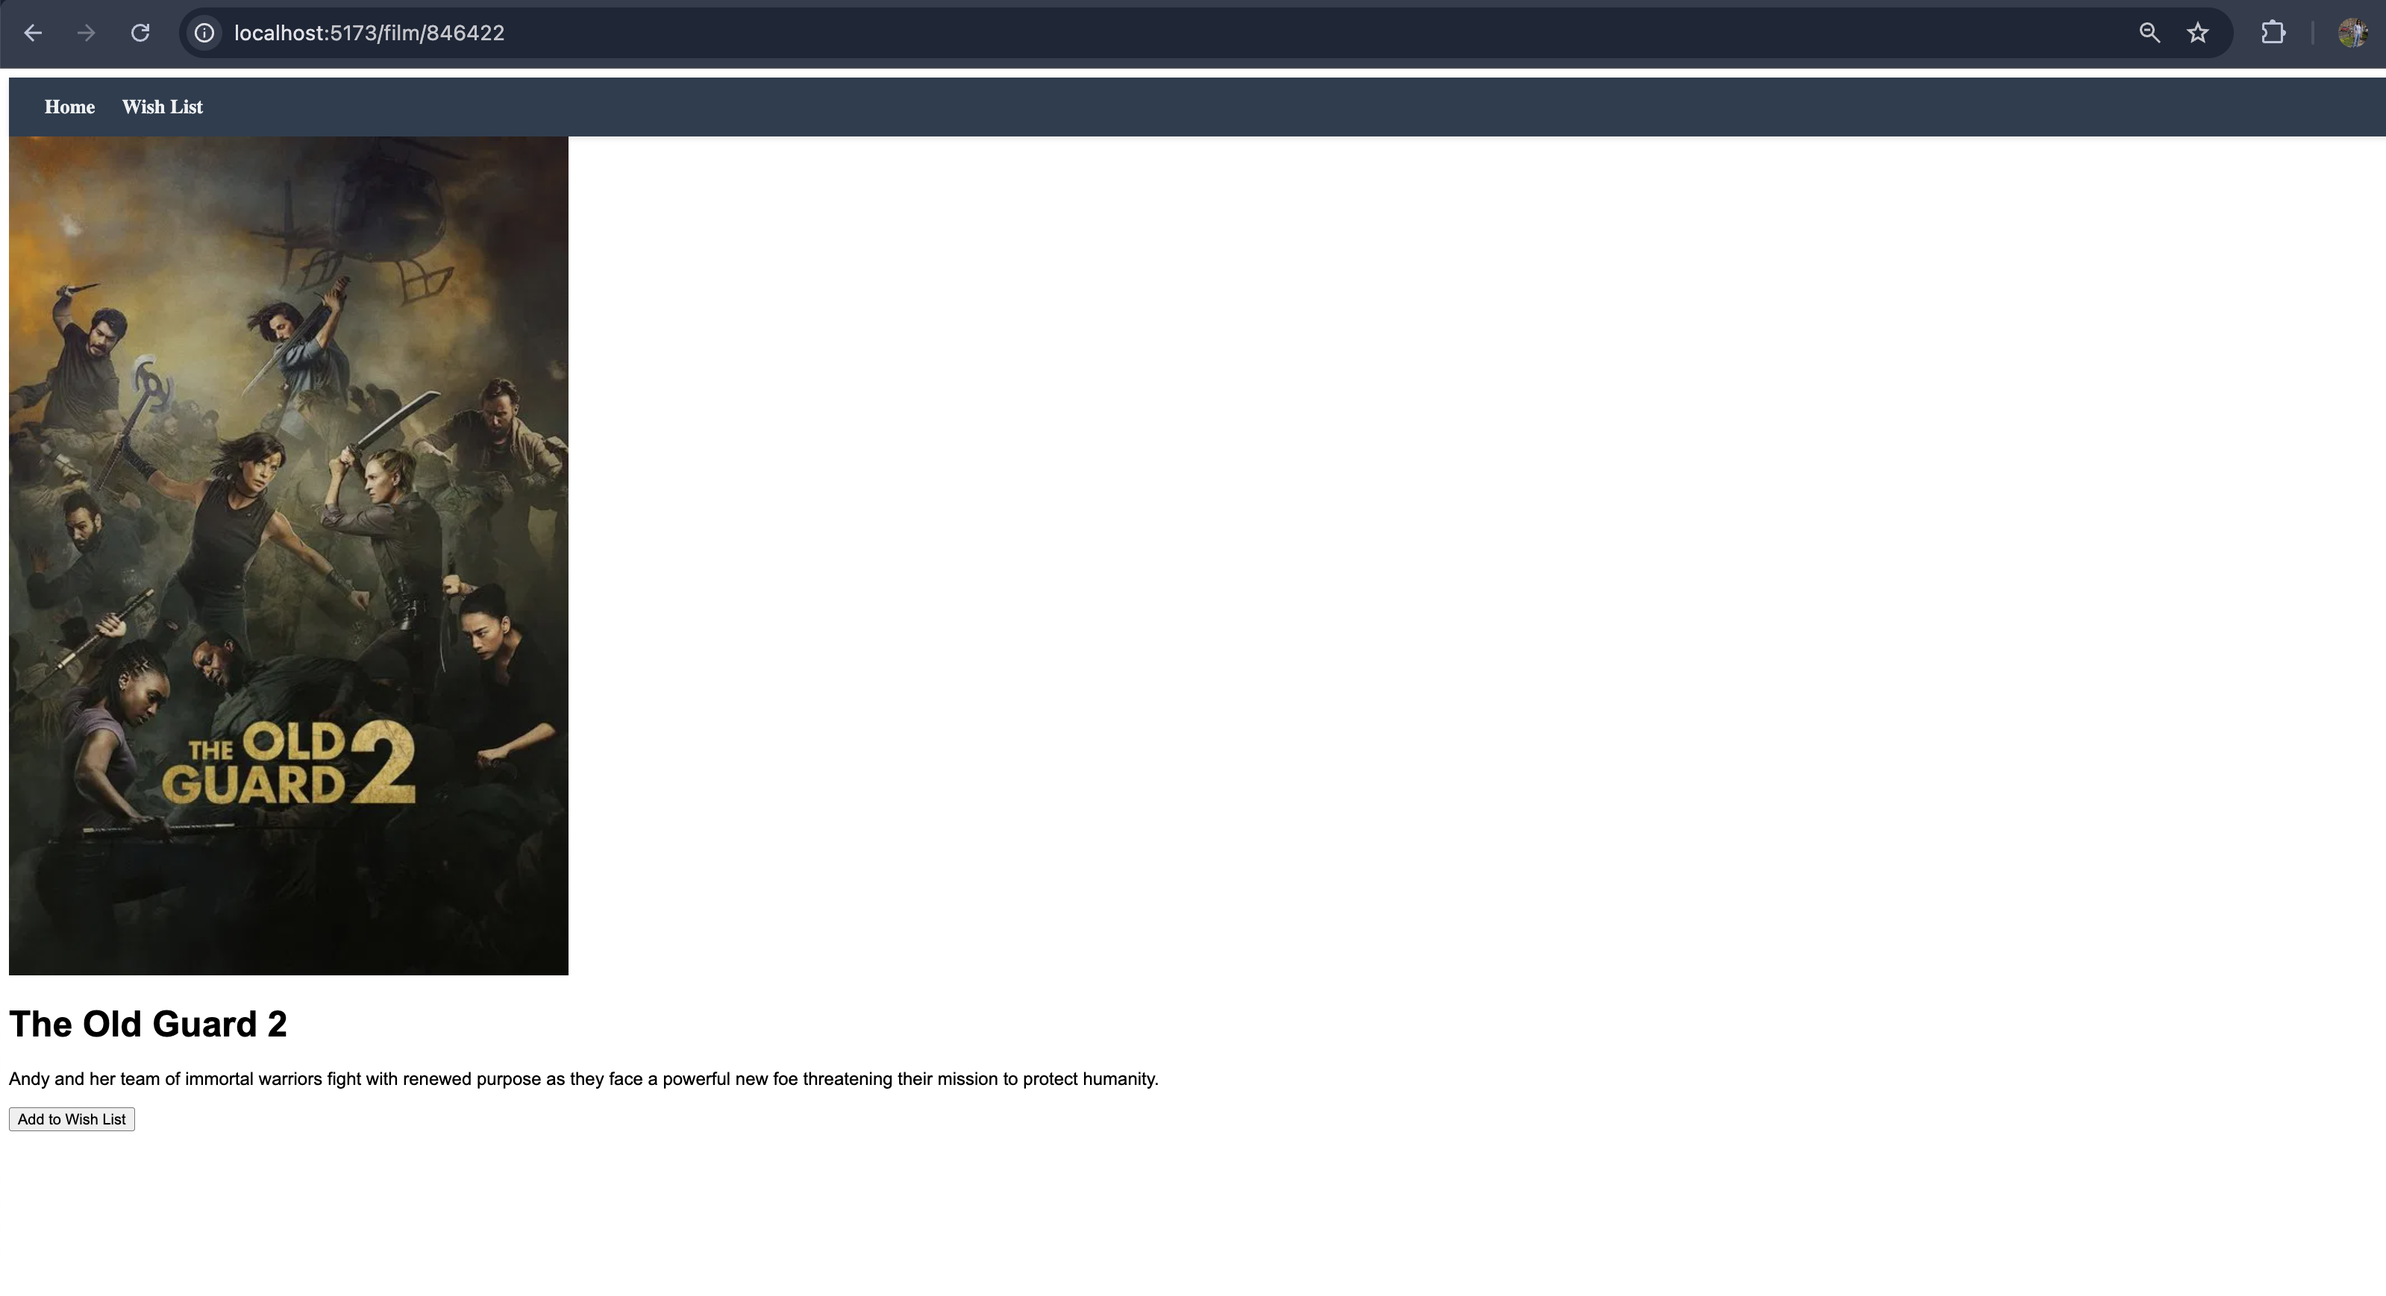
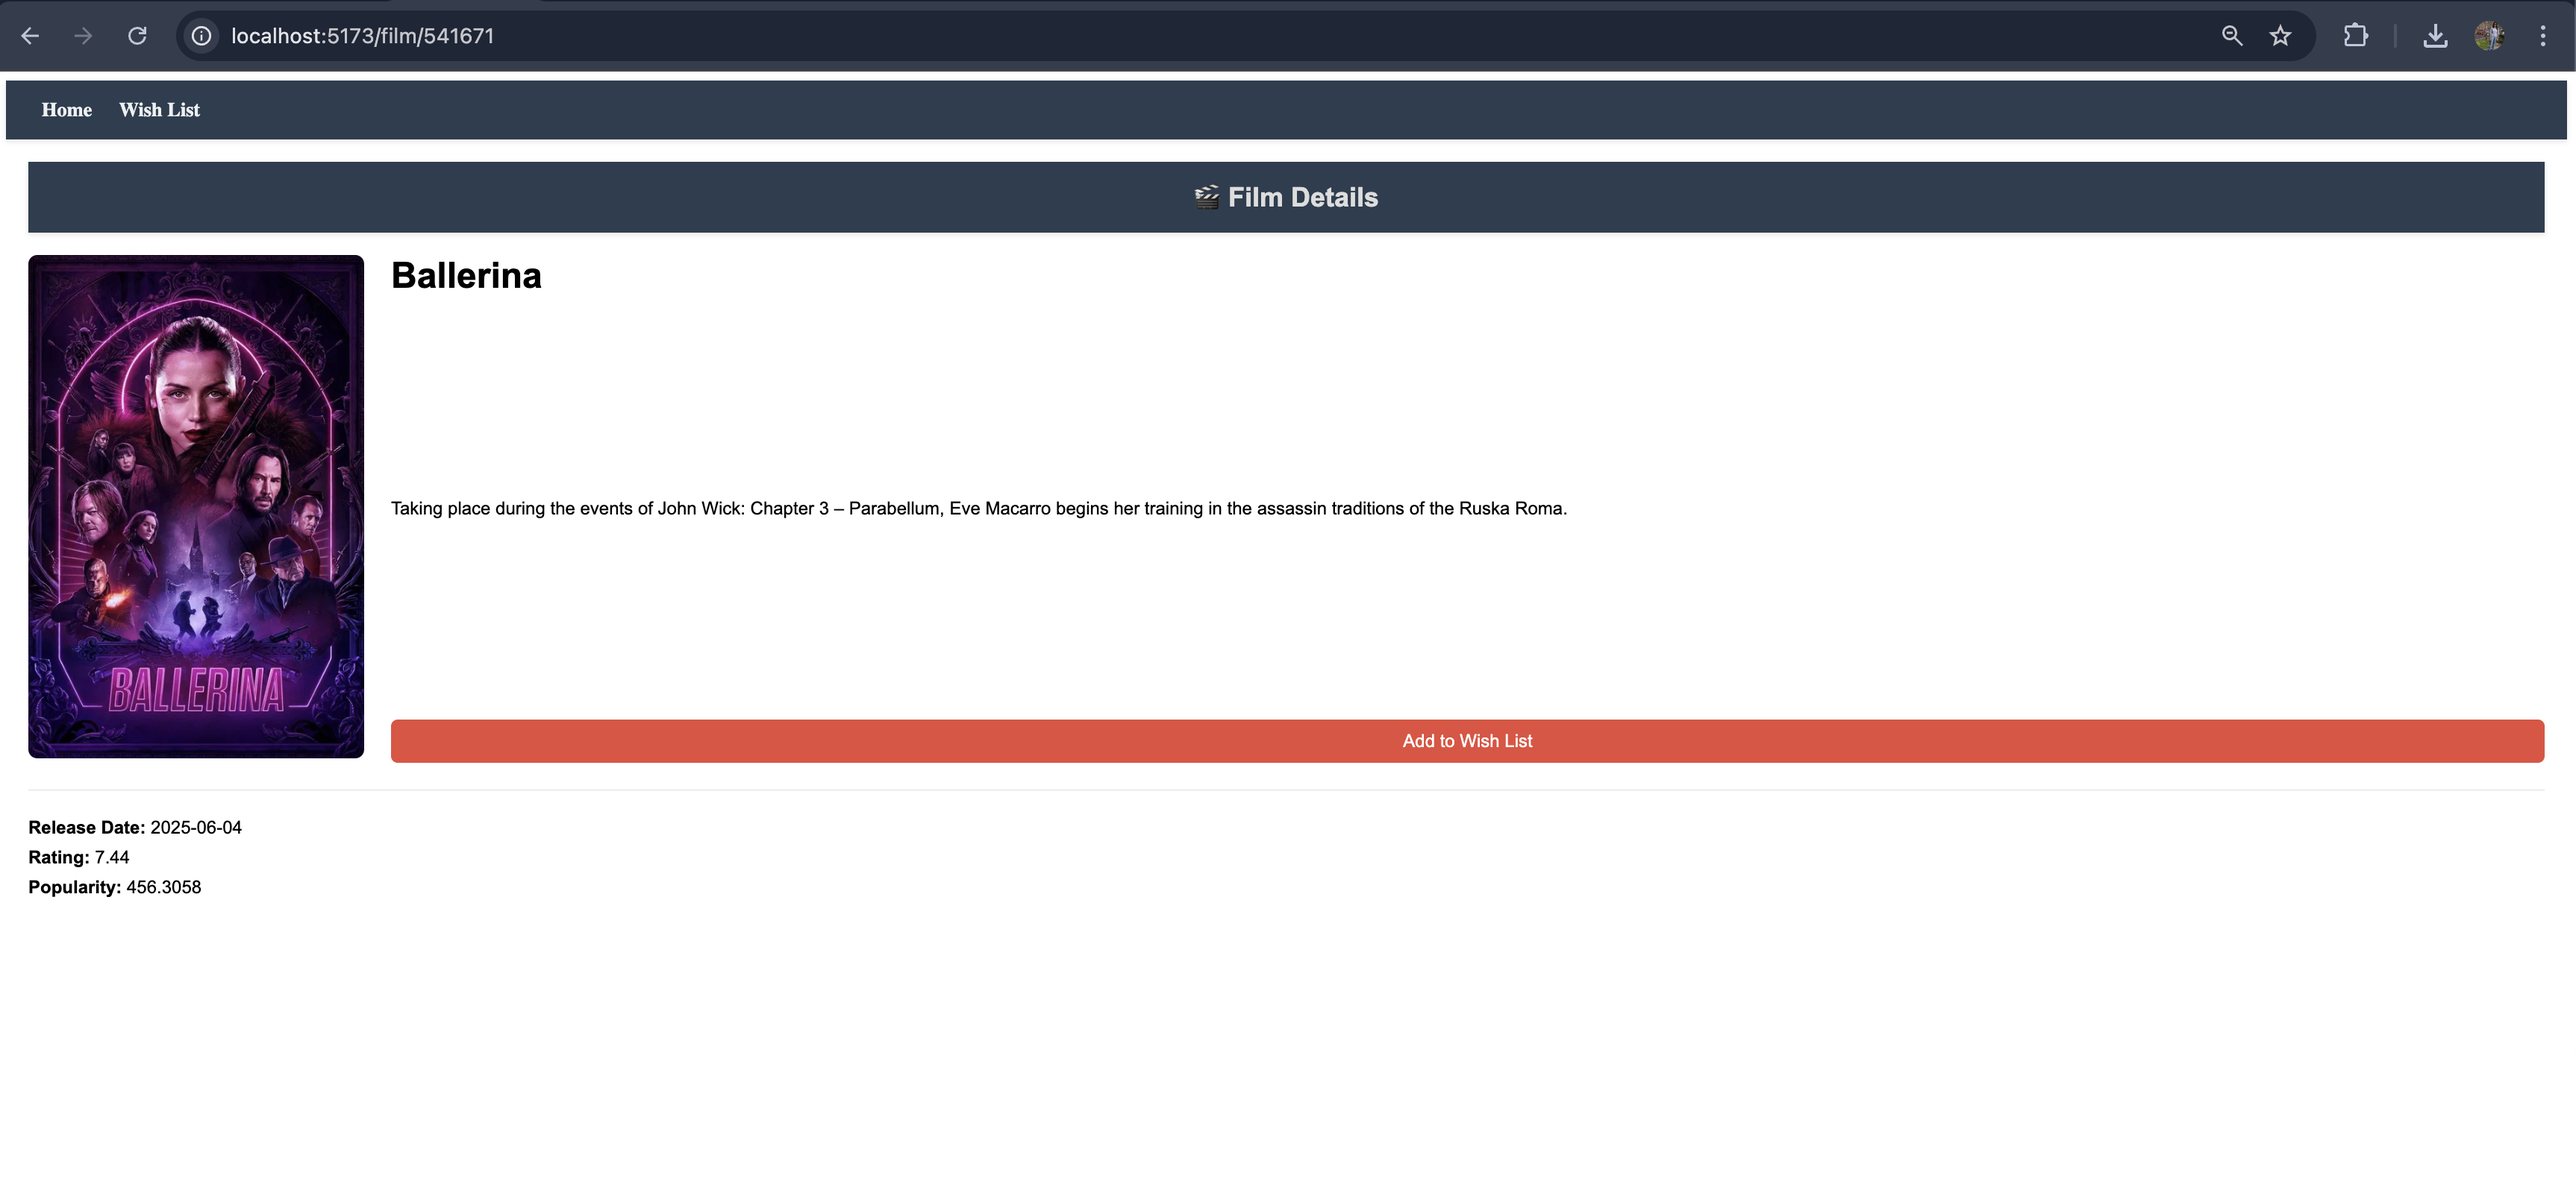
update film detail page

Changed region(s): [[0.0, 0.0, 1.0, 0.8706]]

diff --git a/src/pages/FilmDetail.jsx b/src/pages/FilmDetail.jsx
@@ -20,26 +20,40 @@ const FilmDetail = () => {
     }
   }, [id])
 
-  if (!film) return <div>Loading...</div>
+  if (!film) return <div className="loading">Loading...</div>
 
   const category = film.popularity > 80 ? 'popular' : film.vote_average > 7 ? 'top_rated' : 'upcoming'
   const styles = categoryStyles[category]
 
   return (
-    <div style={{ fontFamily: styles.fontFamily }} className="film-detail">
-      <img src={getImageUrl(film.poster_path)} alt={film.title} className="film-detail__img" />
-      <h1>{film.title}</h1>
-      <p>{film.overview}</p>
-      <button
-        onClick={() =>
-          addToWishList({ id: film.id, title: film.title, poster_path: film.poster_path, category })
-        }
-        className={`film-detail__button ${styles.buttonClass}`}
-      >
-        Add to Wish List
-      </button>
+    <div className="film-detail-page" style={{ fontFamily: styles.fontFamily }}>
+      <header className="header">🎬 Film Details</header>
+
+      <main className="main-content">
+        <div className="image-area">
+          <img src={getImageUrl(film.poster_path)} alt={film.title} />
+        </div>
+        <div className="info-area">
+          <h1>{film.title}</h1>
+          <p>{film.overview}</p>
+          <button
+            onClick={() =>
+              addToWishList({ id: film.id, title: film.title, poster_path: film.poster_path, category })
+            }
+            className={`film-detail__button ${styles.buttonClass}`}
+          >
+            Add to Wish List
+          </button>
+        </div>
+      </main>
+
+      <section className="additional-info">
+        <p><strong>Release Date:</strong> {film.release_date}</p>
+        <p><strong>Rating:</strong> {film.vote_average}</p>
+        <p><strong>Popularity:</strong> {film.popularity}</p>
+      </section>
     </div>
   )
 }
 
-export default FilmDetail       
+export default FilmDetail

diff --git a/src/styles/components/_filmDetail.scss b/src/styles/components/_filmDetail.scss
@@ -1,0 +1,75 @@
+.film-detail-page {
+    padding: 20px;
+
+    .header {
+        font-size: 24px;
+        font-weight: bold;
+        margin-bottom: 20px;
+        text-align: center;
+        color: #ddd;
+    }
+
+    .main-content {
+        display: flex;
+        flex-wrap: wrap;
+        gap: 24px;
+        margin-bottom: 24px;
+
+        .image-area {
+            img {
+                max-width: 300px;
+                width: 100%;
+                border-radius: 8px;
+            }
+        }
+
+        .info-area {
+            flex: 1;
+            display: flex;
+            flex-direction: column;
+            justify-content: space-between;
+
+            h1 {
+                margin-top: 0;
+            }
+
+            p {
+                margin: 10px 0;
+            }
+
+            .film-detail__button {
+                margin-top: 20px;
+                padding: 10px 16px;
+                font-size: 16px;
+                border: none;
+                cursor: pointer;
+                border-radius: 6px;
+
+                &.btn-popular {
+                    background-color: #e74c3c;
+                    color: white;
+                }
+
+                &.btn-top-rated {
+                    background-color: #27ae60;
+                    color: white;
+                }
+
+                &.btn-upcoming {
+                    background-color: #2980b9;
+                    color: white;
+                }
+            }
+        }
+    }
+
+    .additional-info {
+        border-top: 1px solid #ddd;
+        padding-top: 16px;
+        font-size: 16px;
+
+        p {
+            margin: 8px 0;
+        }
+    }
+}

diff --git a/src/pages/FilmDetail.test.jsx b/src/pages/FilmDetail.test.jsx
@@ -47,15 +47,6 @@ describe('FilmDetail Component', () => {
         expect(screen.getByRole('button', { name: /add to wish list/i })).toBeInTheDocument()
     })
 
-    it('applies correct style for popular movies', async () => {
-        renderWithRoute('/film/1')
-
-        await waitFor(() => {
-            const container = screen.getByRole('heading', { name: 'Inception' }).closest('div')
-            expect(container).toHaveStyle({ fontFamily: 'Arial' })
-        })
-    })
-
     it('calls addToWishList on button click', async () => {
         renderWithRoute('/film/1')
 

diff --git a/src/App.jsx b/src/App.jsx
@@ -1,4 +1,3 @@
-// App.tsx
 import React from 'react';
 import { Routes, Route } from 'react-router-dom';
 import Home from './pages/Home';

diff --git a/src/styles/main.scss b/src/styles/main.scss
@@ -2,3 +2,4 @@
 @use './components/header';
 @use './components/filmCard';
 @use './components/wishlist';
+@use './components/filmDetail';
